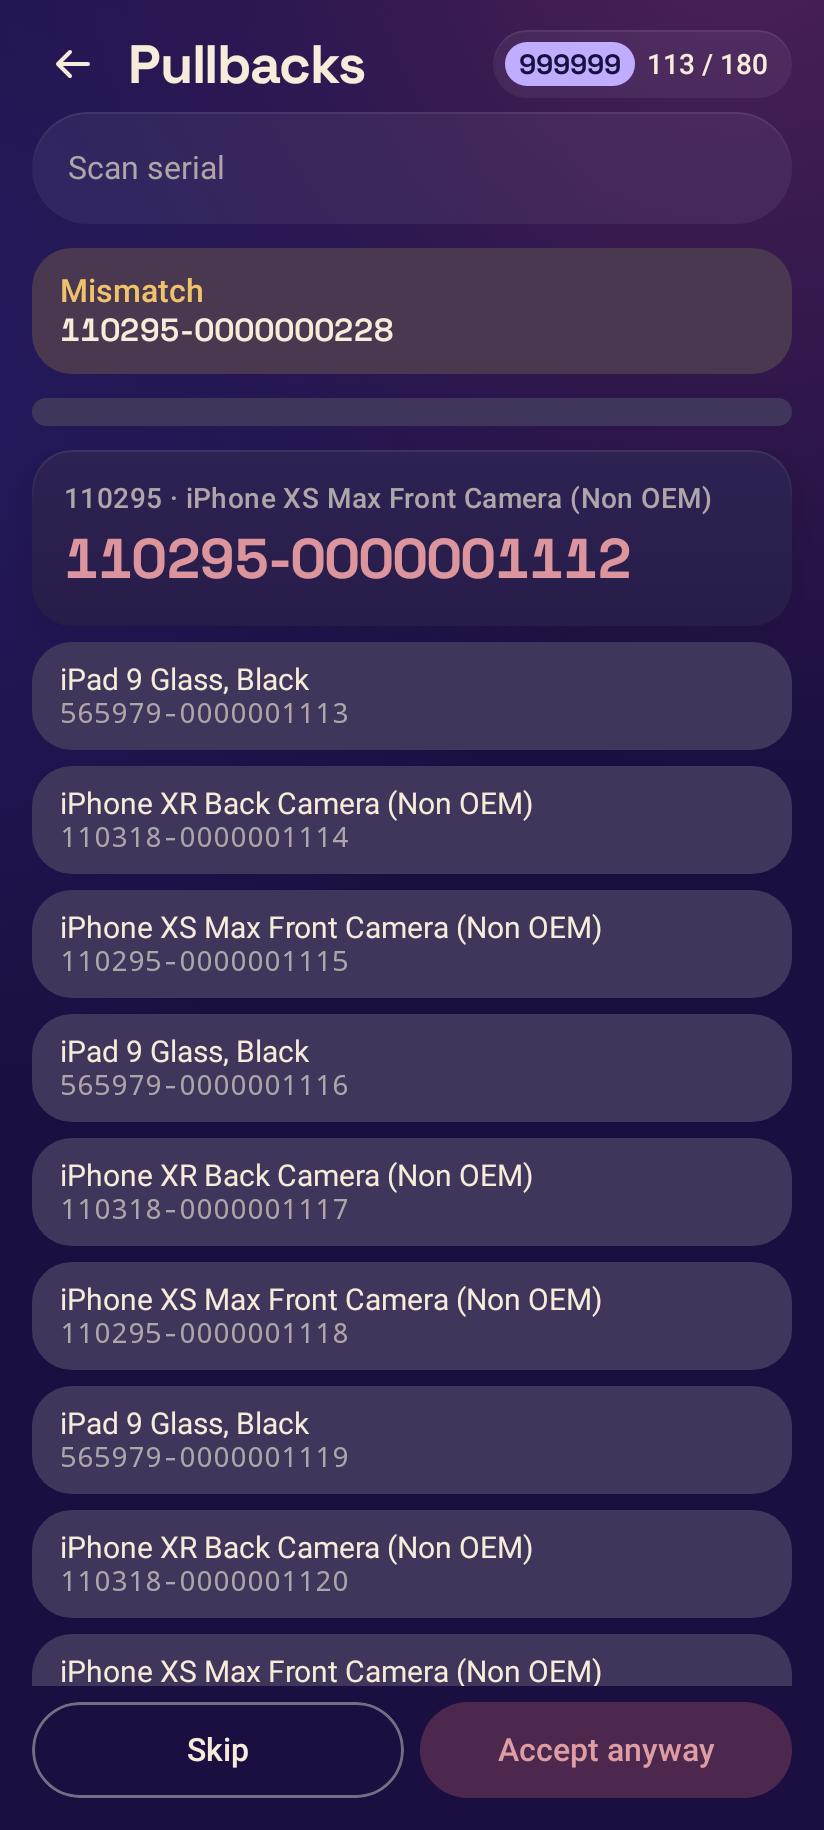
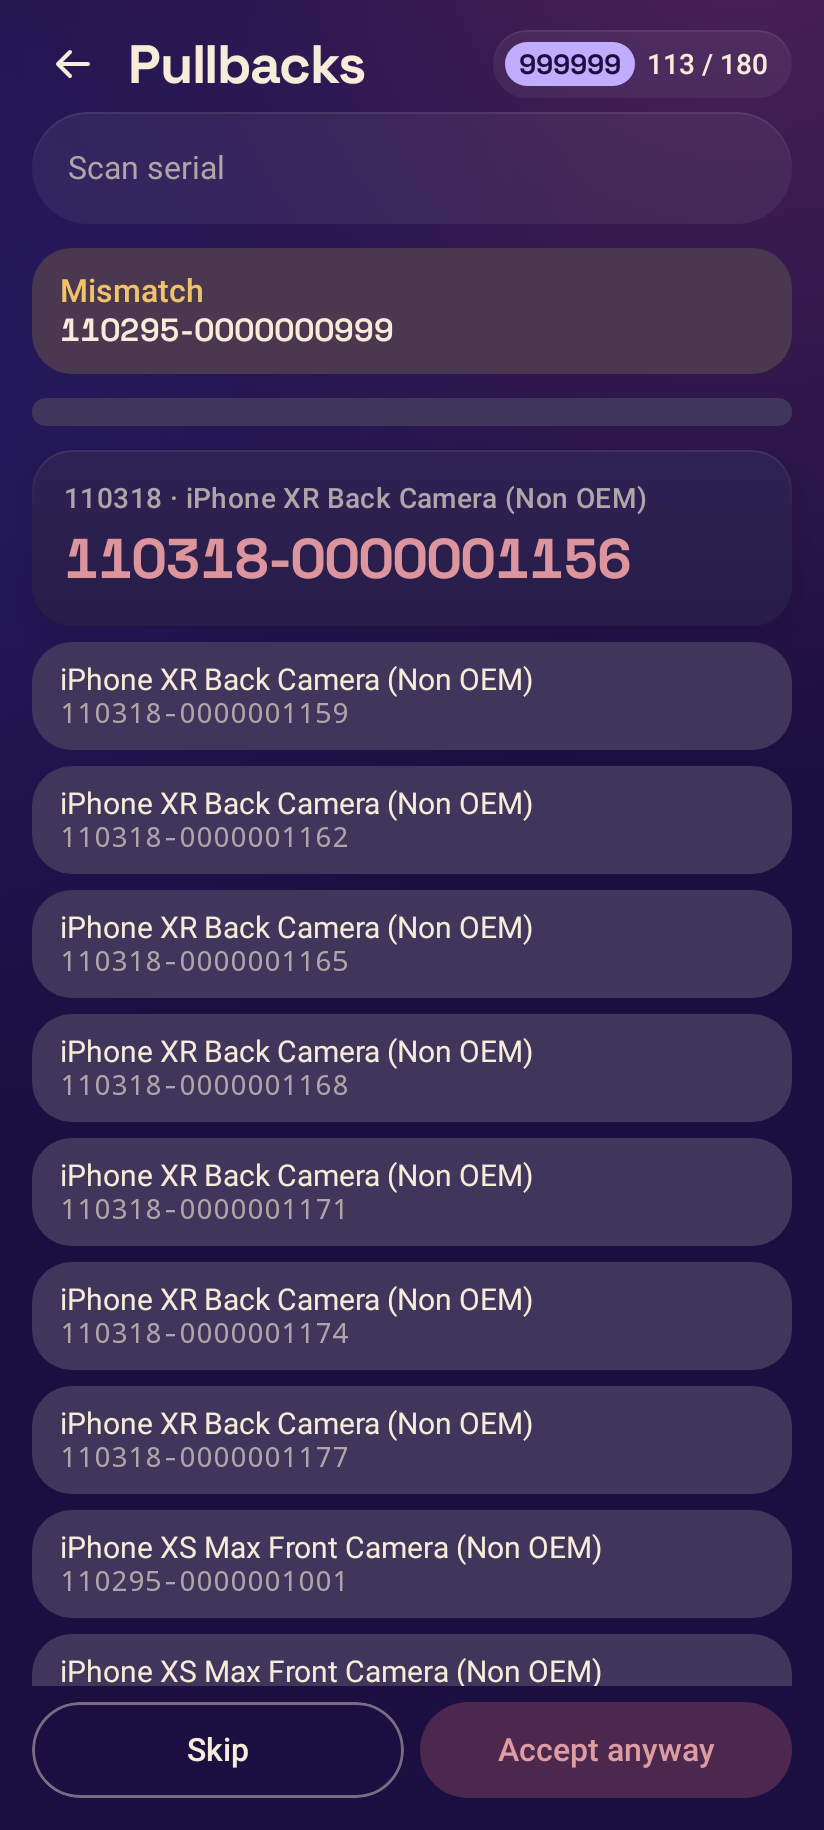
Pullbacks: scan in part-type order, similar parts together
Both apps order the run by part type (screens, batteries, charging ports,
cameras, speakers, flex, back glass, devices, other), then by description
in natural order (iPhone 6 before iPhone 11), then SKU and serial, so the
same SKU and similar parts sit together. Linkpearl 1.2.4.

Claude-Session: https://claude.ai/code/session_01BARgE4WkzmvbXTzFB6QbQ7

diff --git a/src/66-pullbacks.js b/src/66-pullbacks.js
@@ -221,7 +221,34 @@ AE.pullbacks = (() => {
   const storeNum = (s) => (/#\s*(\d+)/.exec(String(s)) || /(\d+)\s*$/.exec(String(s)) || [])[1] || '';
   const stamp = (d = new Date()) => { const p = (n) => String(n).padStart(2, '0'); return d.getFullYear() + '-' + p(d.getMonth() + 1) + '-' + p(d.getDate()) + 'T' + p(d.getHours()) + ':' + p(d.getMinutes()) + ':' + p(d.getSeconds()); };
   const blank = (it) => Object.assign(it, { scanned_serial: '', match: '', status: 'pending', scanned_at: '', backend_status: '', backend_message: '', backend_at: '' });
-  const byDesc = (a, b) => { const x = String(a.description || '').trim().toLowerCase(), y = String(b.description || '').trim().toLowerCase(); return x < y ? -1 : x > y ? 1 : 0; };
+  // Scan order: by part type (the order shelves are usually kept), then by description in natural order (iPhone 6 before iPhone 11), so
+  // the same SKU and similar parts sit together; then SKU and serial. Linkpearl's Pullbacks.category / order are the same rules.
+  const CATEGORIES = [
+    ['devices', /renewed|\b\d+\s?gb\b/i],
+    ['back glass', /back glass|housing/i],
+    ['screens', /glass|\blcd\b|\boled\b|screen|display|digitizer/i],
+    ['batteries', /battery/i],
+    ['charging ports', /charging port|dock connector/i],
+    ['speakers', /speaker|earpiece/i],
+    ['flex', /sensor\/front camera/i],
+    ['cameras', /camera/i],
+    ['flex', /flex|coil|sensor|nfc/i],
+  ];
+  const ORDER = ['screens', 'batteries', 'charging ports', 'cameras', 'speakers', 'flex', 'back glass', 'devices'];
+  const category = (desc) => { const d = String(desc || ''); const hit = CATEGORIES.find(([, re]) => re.test(d)); return hit ? hit[0] : 'other'; };
+  const rank = (desc) => { const i = ORDER.indexOf(category(desc)); return i < 0 ? ORDER.length : i; };
+  const chunks = (t) => String(t || '').trim().toLowerCase().match(/\d+|\D+/g) || [];
+  function natural(a, b) {
+    const x = chunks(a), y = chunks(b);
+    for (let i = 0; i < Math.min(x.length, y.length); i++) {
+      const p = x[i], q = y[i], pn = /^\d/.test(p), qn = /^\d/.test(q);
+      if (pn && qn) { const d = Number(p) - Number(q); if (d) return d; } else if (pn !== qn) return pn ? -1 : 1;
+      else if (p !== q) return p < q ? -1 : 1;
+    }
+    return x.length - y.length;
+  }
+  const byDesc = (a, b) => rank(a.description) - rank(b.description) || natural(a.description, b.description)
+    || natural(a.sku, b.sku) || natural(a.serial, b.serial);
 
   // rows → { kind: 'export' | 'results', headers, items } (items not yet filtered by store for an export)
   function parse(rows) {
@@ -320,7 +347,7 @@ AE.pullbacks = (() => {
     return { ok: false, message: 'status ' + r.status + (r.text ? ': ' + String(r.text).slice(0, 200) : '') };
   }
 
-  return { RESULT_HEADERS, readXlsx, readCsv, writeXlsx, unzip, parse, stores, forStore, results, fileName, unmarked, counts, mark, norm, storeNum, stamp, blank, fillOf };
+  return { RESULT_HEADERS, category, readXlsx, readCsv, writeXlsx, unzip, parse, stores, forStore, results, fileName, unmarked, counts, mark, norm, storeNum, stamp, blank, fillOf };
 })();
 
 AE.shard({

diff --git a/android/app/src/main/kotlin/dev/aethernet/linkpearl/feature/pullbacks/PullbackList.kt b/android/app/src/main/kotlin/dev/aethernet/linkpearl/feature/pullbacks/PullbackList.kt
@@ -130,8 +130,43 @@ object Pullbacks {
                 backendAt = if (results) text(r, "Backend At") else "",
             )
         }
-        val sorted = if (results) items else items.sortedBy { it.description.trim().lowercase() }
+        val sorted = if (results) items else items.sortedWith(scanOrder)
         return PbList(headers.filter { it.isNotEmpty() && it !in RESULT_HEADERS }, sorted, results)
+    }
+
+    /**
+     * Scan order: by part type (the order shelves are usually kept), then by description in natural order (iPhone 6 before iPhone 11),
+     * so the same SKU and similar parts sit together; then SKU and serial. The same rules as Aethernet's Elusive Jump.
+     */
+    private val CATEGORIES = listOf(
+        "devices" to Regex("renewed|\\b\\d+\\s?gb\\b", RegexOption.IGNORE_CASE),
+        "back glass" to Regex("back glass|housing", RegexOption.IGNORE_CASE),
+        "screens" to Regex("glass|\\blcd\\b|\\boled\\b|screen|display|digitizer", RegexOption.IGNORE_CASE),
+        "batteries" to Regex("battery", RegexOption.IGNORE_CASE),
+        "charging ports" to Regex("charging port|dock connector", RegexOption.IGNORE_CASE),
+        "speakers" to Regex("speaker|earpiece", RegexOption.IGNORE_CASE),
+        "flex" to Regex("sensor/front camera", RegexOption.IGNORE_CASE),
+        "cameras" to Regex("camera", RegexOption.IGNORE_CASE),
+        "flex" to Regex("flex|coil|sensor|nfc", RegexOption.IGNORE_CASE),
+    )
+    private val ORDER = listOf("screens", "batteries", "charging ports", "cameras", "speakers", "flex", "back glass", "devices")
+    fun category(description: String): String = CATEGORIES.firstOrNull { it.second.containsMatchIn(description) }?.first ?: "other"
+    private fun rank(description: String) = ORDER.indexOf(category(description)).let { if (it < 0) ORDER.size else it }
+    private val CHUNK = Regex("\\d+|\\D+")
+    fun natural(a: String, b: String): Int {
+        val x = CHUNK.findAll(a.trim().lowercase()).map { it.value }.toList()
+        val y = CHUNK.findAll(b.trim().lowercase()).map { it.value }.toList()
+        for (i in 0 until minOf(x.size, y.size)) {
+            val p = x[i]; val q = y[i]; val pn = p[0].isDigit(); val qn = q[0].isDigit()
+            if (pn && qn) { val d = p.toBigInteger().compareTo(q.toBigInteger()); if (d != 0) return d }
+            else if (pn != qn) return if (pn) -1 else 1
+            else if (p != q) return p.compareTo(q)
+        }
+        return x.size - y.size
+    }
+    val scanOrder: Comparator<PbItem> = Comparator { a, b ->
+        (rank(a.description) - rank(b.description)).takeIf { it != 0 } ?: natural(a.description, b.description).takeIf { it != 0 }
+            ?: natural(a.skuText, b.skuText).takeIf { it != 0 } ?: natural(a.serial, b.serial)
     }
 
     /** The stores in a list with their item counts, by store number. */

diff --git a/android/app/src/test/kotlin/dev/aethernet/linkpearl/feature/pullbacks/PullbacksTest.kt b/android/app/src/test/kotlin/dev/aethernet/linkpearl/feature/pullbacks/PullbacksTest.kt
@@ -77,6 +77,26 @@ class PullbacksTest {
         assertEquals("Pullback Serials - 900 - Scan Results.xlsx", Pullbacks.fileName("Pullback Serials - 900 - Scan Results.xlsx", "Test Store #900"))
     }
 
+    @Test fun scanOrder() {
+        // The same list as Aethernet's test-client/pullbacks.mjs "scan order".
+        val input = listOf(
+            "iPhone 12 Back Camera (Non OEM)", "iPhone 11 Charging Port Flex, Black (Non OEM)", "Galaxy S22 - 128GB - Black - Renewed 2",
+            "iPhone 11 Pro Glass/LCD, Select LCD Non OEM", "iPad Air 2 Battery (Non-OEM)", "iPhone 6 Glass/ LCD, White, Select Non-OEM",
+            "iPhone 12 Wifi Flex", "iPhone 13 Ear Speaker Sensor Flex", "Samsung Galaxy S23 Ultra Back Glass, Lavender, GH97-28420D",
+            "iPhone 7 Proximity Sensor/Front Camera/Front Mic Flex (Non OEM)", "iPhone 7 Dock Connector Flex, Black", "iPhone 11 Front Camera (Non OEM)",
+        )
+        val out = listOf(
+            "iPhone 6 Glass/ LCD, White, Select Non-OEM", "iPhone 11 Pro Glass/LCD, Select LCD Non OEM", "iPad Air 2 Battery (Non-OEM)",
+            "iPhone 7 Dock Connector Flex, Black", "iPhone 11 Charging Port Flex, Black (Non OEM)", "iPhone 11 Front Camera (Non OEM)",
+            "iPhone 12 Back Camera (Non OEM)", "iPhone 13 Ear Speaker Sensor Flex", "iPhone 7 Proximity Sensor/Front Camera/Front Mic Flex (Non OEM)",
+            "iPhone 12 Wifi Flex", "Samsung Galaxy S23 Ultra Back Glass, Lavender, GH97-28420D", "Galaxy S22 - 128GB - Black - Renewed 2",
+        )
+        assertEquals(out, input.mapIndexed { i, d -> PbItem("S #1", 100.0 + i, d, "X-$i") }.sortedWith(Pullbacks.scanOrder).map { it.description })
+        val same = listOf(PbItem("S #1", 2.0, "iPhone 11 Battery", "B"), PbItem("S #1", 2.0, "iPhone 11 Battery", "A"), PbItem("S #1", 1.0, "iPhone 11 Battery", "C"))
+        assertEquals(listOf("C", "A", "B"), same.sortedWith(Pullbacks.scanOrder).map { it.serial })
+        assertEquals("cameras", Pullbacks.category("iPhone 16 Front Camera Module With Flex (Non OEM)"))
+    }
+
     @Test fun csv() {
         val list = Pullbacks.parse(Pullbacks.readCsv("Store,SKU,Description,Serial\r\n\"Test Store #900\",1,\"A, b\",S-9\r\n"))
         assertEquals("A, b", list.items[0].description)

diff --git a/android/app/src/test/kotlin/dev/aethernet/linkpearl/feature/pullbacks/screenshot/PullbacksScreenshotTest.kt b/android/app/src/test/kotlin/dev/aethernet/linkpearl/feature/pullbacks/screenshot/PullbacksScreenshotTest.kt
@@ -9,6 +9,7 @@ import dev.aethernet.linkpearl.feature.pullbacks.PbSaved
 import dev.aethernet.linkpearl.feature.pullbacks.PbSession
 import dev.aethernet.linkpearl.feature.pullbacks.PbUi
 import dev.aethernet.linkpearl.feature.pullbacks.PullbackScreen
+import dev.aethernet.linkpearl.feature.pullbacks.Pullbacks
 import dev.aethernet.linkpearl.testing.Device
 import dev.aethernet.linkpearl.testing.shoot
 import org.junit.Rule
@@ -34,7 +35,7 @@ class PullbacksScreenshotTest(private val shot: PbShot, private val device: Devi
             val (d, sku) = parts[i % 3]
             PbItem("Sandbox Store #999999", sku, d, "${sku.toLong()}-${(1000 + i).toString().padStart(10, '0')}", 1.0, 12.5)
         }
-        private val list = PbList(listOf("Store", "SKU", "Description", "Serial", "Return Units", "Return Value"), items)
+        private val list = PbList(listOf("Store", "SKU", "Description", "Serial", "Return Units", "Return Value"), items.sortedWith(Pullbacks.scanOrder))
 
         fun ui(shot: PbShot): PbUi {
             var s = PbSession("Pullback Serials.xlsx", "Sandbox Store #999999", list)
@@ -43,7 +44,7 @@ class PullbacksScreenshotTest(private val shot: PbShot, private val device: Devi
                 PbShot.Start -> PbUi.Start(PbSaved("Pullback Serials.xlsx", "Sandbox Store #999999", 112, 180))
                 PbShot.Stores -> PbUi.Stores("Pullback Serials.xlsx", listOf("Sandbox Store #999999" to 180, "Lynnhaven Store #326" to 183, "Windsor Woods Store #707" to 23), "Sandbox Store #999999", 3214.0)
                 PbShot.Scanning -> PbUi.Scanning(s)
-                PbShot.Mismatch -> PbUi.Scanning(s.scan("110295-0000000228"))
+                PbShot.Mismatch -> PbUi.Scanning(s.scan("110295-0000000999"))
                 PbShot.Done -> {
                     repeat(2) { s = s.scan("X").acceptAnyway(now = "2026-11-16T15:00:00") }
                     repeat(5) { s = s.skip() }
